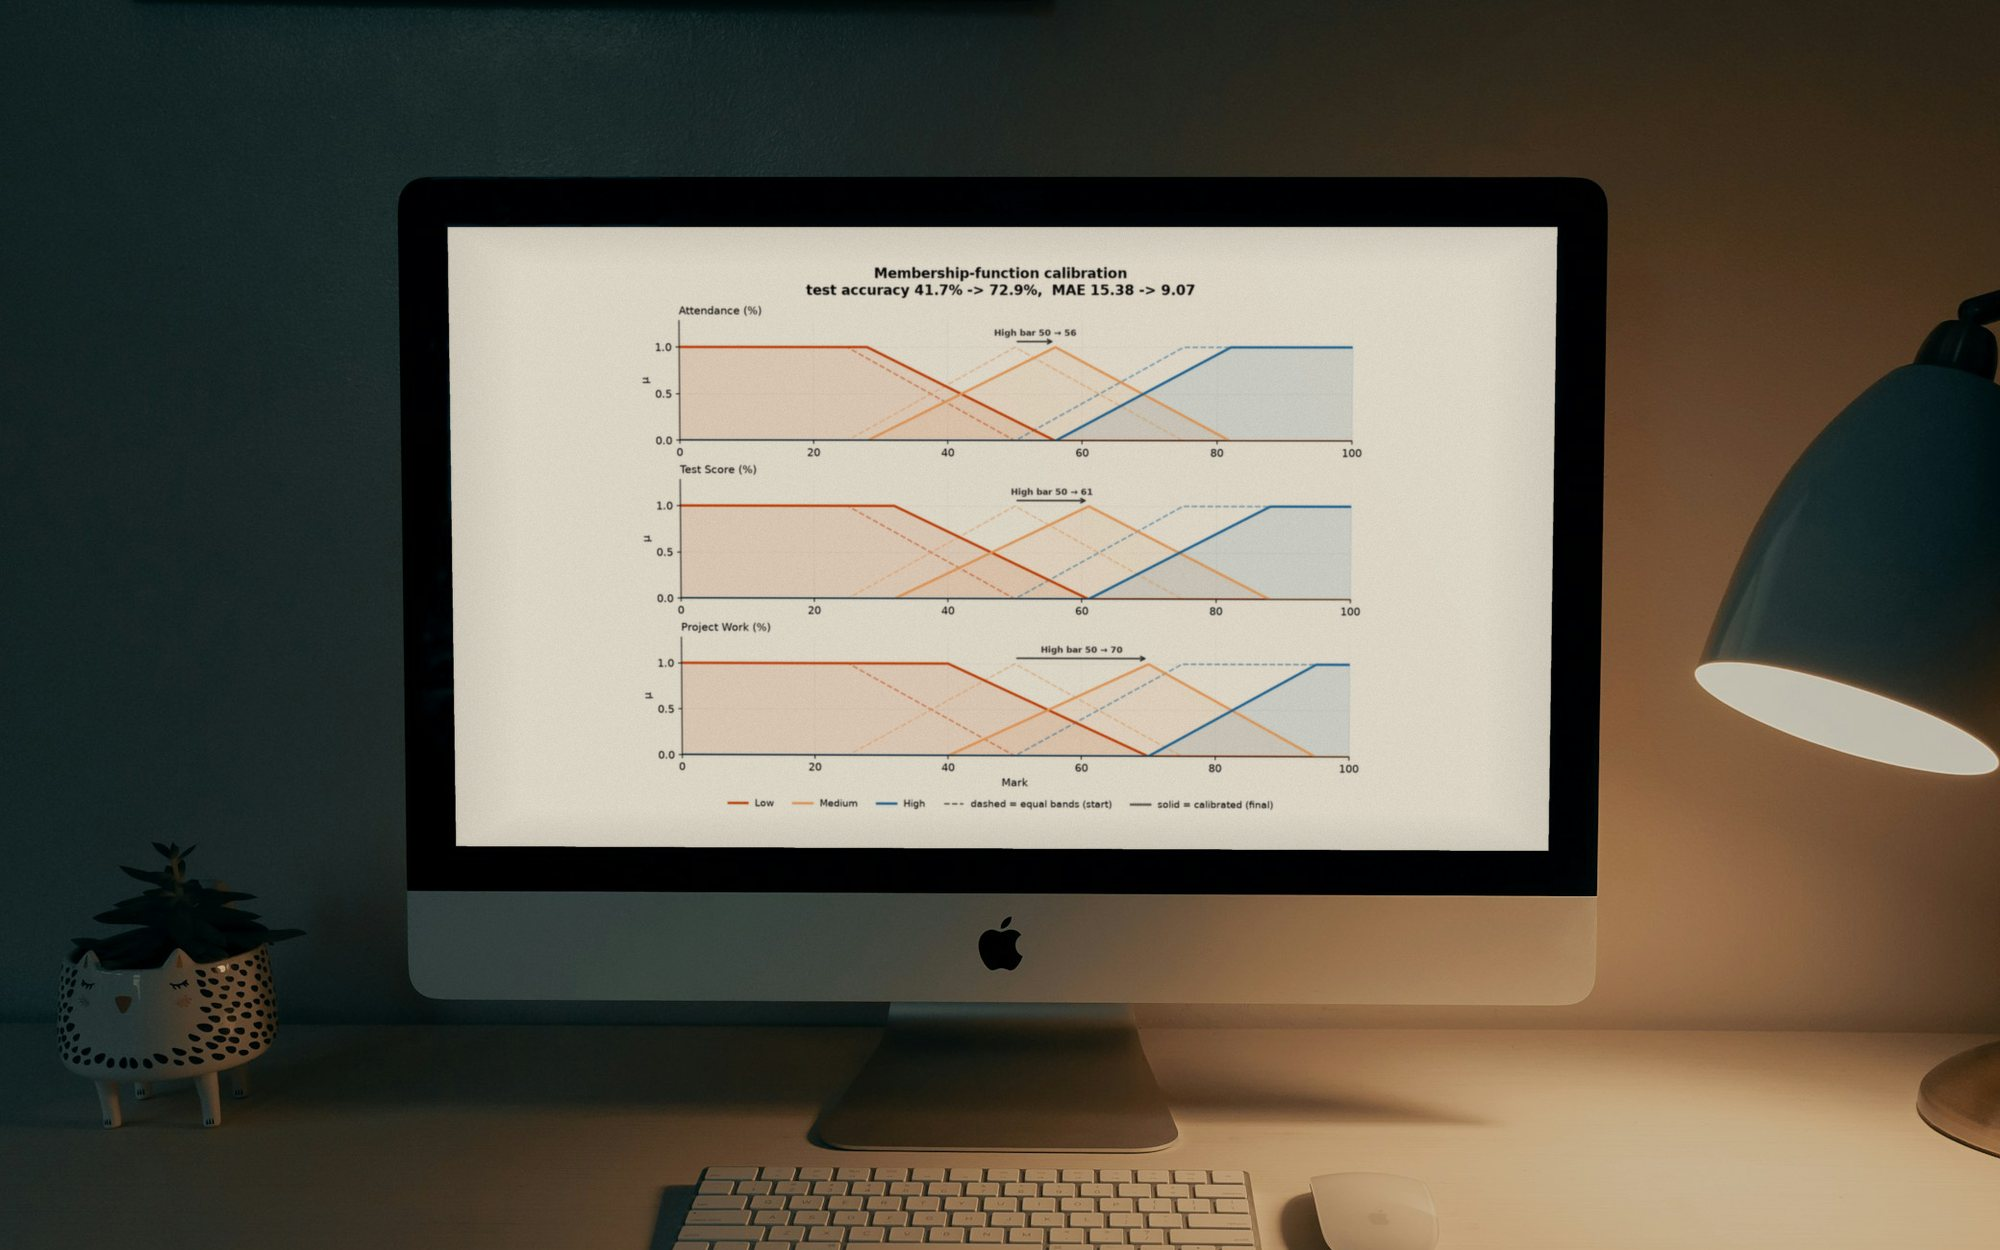
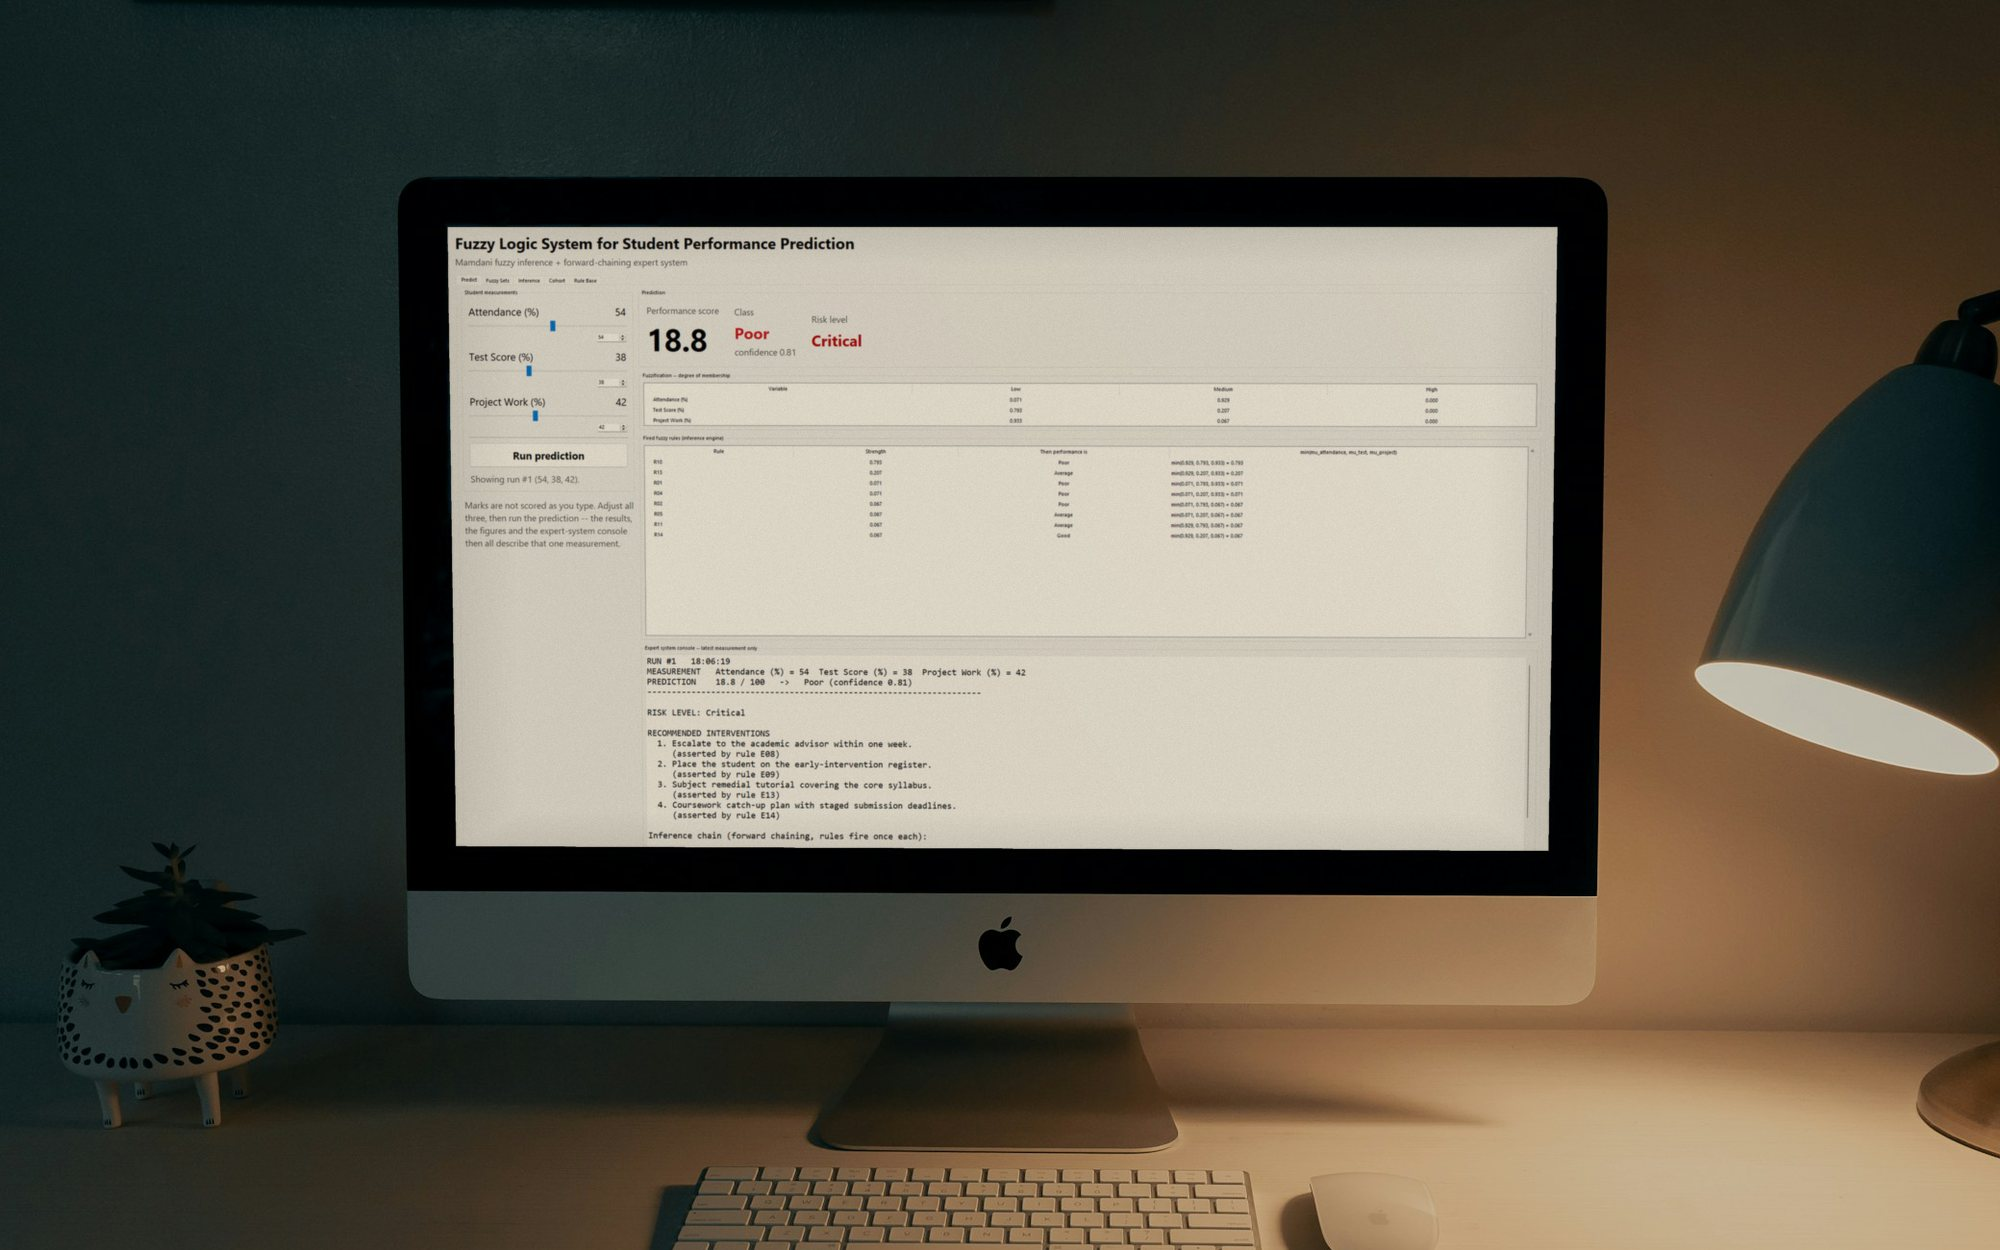
content(fuzzy-logic): show the real desktop app instead of result charts
The cover is the Predict tab for an at-risk student (54/38/42: 18.8, Poor,
Critical); the gallery shows the Fuzzy Sets, Inference, Predict (a strong
student), Cohort and Rule Base tabs. The iMac mockup is regenerated with the
Predict screen (fit: cover), screenFit: contain is dropped (UI screens use the
standard overlapping panels), alts describe each screen, the details mention
the app's tabs, and the old result charts and architecture diagram are
removed. Test, README and spec updated.

Changed region(s): [[0.217, 0.1872, 0.682, 0.6864], [0.651, 0.3432, 0.682, 0.3744]]

diff --git a/tests/e2e/details.spec.ts b/tests/e2e/details.spec.ts
@@ -64,10 +64,14 @@ test('team block lists the right members, and is omitted for an individual proje
   await expect(page.getByRole('complementary', { name: 'Project facts' })).toContainText('Final Year Project');
 });
 
-test('fuzzy logic images are described as system results, and the removed paragraphs are gone', async ({ page }) => {
+test('fuzzy logic images are screens of its desktop app, and the removed paragraphs are gone', async ({ page }) => {
   await page.goto('/software/fuzzy-logic');
   const alts = await page.locator('.shots img').evaluateAll((els) => els.map((e) => (e as HTMLImageElement).alt));
-  expect(alts.filter((a) => a.startsWith('Result chart')).length).toBeGreaterThanOrEqual(3);
+  // The gallery shows every tab of the app after the cover (Predict): no result charts any more.
+  expect(alts.map((a) => a.split(':')[0])).toEqual(['Fuzzy Sets tab', 'Inference tab', 'Predict tab for a strong student (attendance 88, test 78, project 85)', 'Cohort tab', 'Rule Base tab']);
+  expect(alts.some((a) => a.startsWith('Result'))).toBe(false);
+  await expect(page.locator('.shots .stacks')).not.toHaveClass(/charts/);
+  await expect(page.locator('a.hero img')).toHaveAttribute('alt', /Predict tab/);
   const about = page.getByRole('region', { name: 'About the project' });
   await expect(about).not.toContainText('outputs of the system, not its interface');
   await expect(about).not.toContainText('simulated cohort of 800 students');

diff --git a/scripts/make-mockups.py b/scripts/make-mockups.py
@@ -53,12 +53,13 @@ SCENES = {
         gain=0.9, tint=(1.0, 0.985, 0.95), glare=0.06, glare_from='left', blur=0.6, grain=2.6,
         crop=(160, 0, 2240, 1300), grade=dict(brightness=0.9, color=0.92, contrast=1.0),
     ),
-    # Fuzzy Logic result chart on an iMac on a study desk at night, lit by a desk lamp.
+    # The Fuzzy Logic desktop app's Predict tab (an at-risk student's prediction) on an iMac on a study desk at night,
+    # lit by a desk lamp. The 16:10 window fills the 16:9 display, anchored at the top (only the bottom rows are cut).
     'fuzzy-logic': dict(
         photo='fuzzy-study.jpg',
         glass=[(626.6, 367.0), (1778.7, 367.0), (1769.3, 1014.0), (635.3, 1009.0)],
         display=(0, 0, 1, 1), grow=1.2,
-        cover='fuzzy-logic/02-calibration.png', fit='contain', pad=0.05,
+        cover='fuzzy-logic/01-predict.png', fit='cover',
         gain=0.86, tint=(1.0, 0.97, 0.9), glare=0.035, glare_from='right', blur=0.6, grain=2.4,
         crop=(160, 130, 2240, 1430), grade=dict(brightness=1.0, color=1.0, contrast=1.0),
     ),

diff --git a/docs/superpowers/specs/2026-10-03-personal-website-design.md b/docs/superpowers/specs/2026-10-03-personal-website-design.md
@@ -184,7 +184,7 @@ The build fails with a clear error if a required field is missing, an image path
 else has none for now. No photos exist yet for anyone (every member shows the initials placeholder):
 - StockSense: individual.
 - JomLah: Muhammad Zarif Nurhan Bin Mohd Arifin, Jordan Septian, Hakim Bin Taufik.
-- Fuzzy Logic: Muhammad Zarif Nurhan Bin Mohd Arifin, Jordan Septian, Hakim Bin Taufik, Mior Ahmad Danial, Yeap Hsien Hong. Its images are result charts produced by the system (plus its architecture diagram), not its interface; the cover is the calibration result.
+- Fuzzy Logic: Muhammad Zarif Nurhan Bin Mohd Arifin, Jordan Septian, Hakim Bin Taufik, Mior Ahmad Danial, Yeap Hsien Hong. Its images are screenshots of the real Tkinter desktop app, captured by `scripts/capture-fuzzy-app.py` (run against the coursework source, read-only): the cover is the Predict tab for an at-risk student, and the gallery shows the Fuzzy Sets, Inference, Predict (a strong student), Cohort and Rule Base tabs.
 - Fixer: Muhammad Zarif Nurhan Bin Mohd Arifin, Yogesh Sandeep Jayavant, Hakim Bin Taufik, Jordan Septian.
 
 **Long descriptions** (`details`) are written only from the source reports below and the approved short text; team projects are described as team work.
@@ -200,7 +200,7 @@ else has none for now. No photos exist yet for anyone (every member shows the in
 
 - StockSense: `Y3S1/Project Design and Implementation/Document/1002267337_StockSenseReport.pdf`
 - JomLah: `Y3S2/Web Programming/Assignment/Document/DONE/Report_JOMLAH - Centralize Event Management App.pdf`
-- Fuzzy Logic: `Y3S2/Intelligent System/Assignment/Document/Done/1002267337_Report_FuzzyLogicStudentPerformance.pdf`
+- Fuzzy Logic: originally `Y3S2/Intelligent System/Assignment/Document/Done/1002267337_Report_FuzzyLogicStudentPerformance.pdf`; now screenshots of the app in `Y3S2/Intelligent System/Assignment/SourceCode` (see above)
 - Fixer: `Y2S3/BIC3203 Business Case Project/Assignment/BizCaseDoc/Fixer_BusinessCaseDocument.pdf`, plus `FixerBizCase/User Manual.pdf`
 
 Paths are relative to `D:\backup\Nurhan\UCSI\Degree`. Each project gets 3–5 images, preferring UI screens and charts over diagrams and text.

diff --git a/README.md b/README.md
@@ -80,6 +80,13 @@ Both the 3D card and the static fallback badge use it.
 changing the name, headline or featured render in that script. It shows a warehouse render, not the badge photo; to
 put your photo in it after adding one, edit the image path in the script and rerun it.
 
+## Fuzzy Logic app screenshots
+The Fuzzy Logic gallery shows the real Tkinter desktop app. `scripts/capture-fuzzy-app.py` (Windows) imports the app
+from its source folder (passed as an argument; nothing is written there), drives it (enters two students' marks,
+presses Run prediction, generates and evaluates the 800-student cohort) and saves each tab at 1440 x 900 logical px,
+rendered 1.7x. See the script's docstring for usage; then copy the PNGs into `src/assets/images/fuzzy-logic/` and
+rerun `python scripts/make-mockups.py fuzzy-logic` if the Predict screen changed.
+
 ## Photo credits
 The home page's pick-a-side backgrounds are free photos from [Unsplash](https://unsplash.com) (Unsplash License:
 free to use, no attribution required; credited here anyway). They are stock photos, not Zarif's projects. Files live
